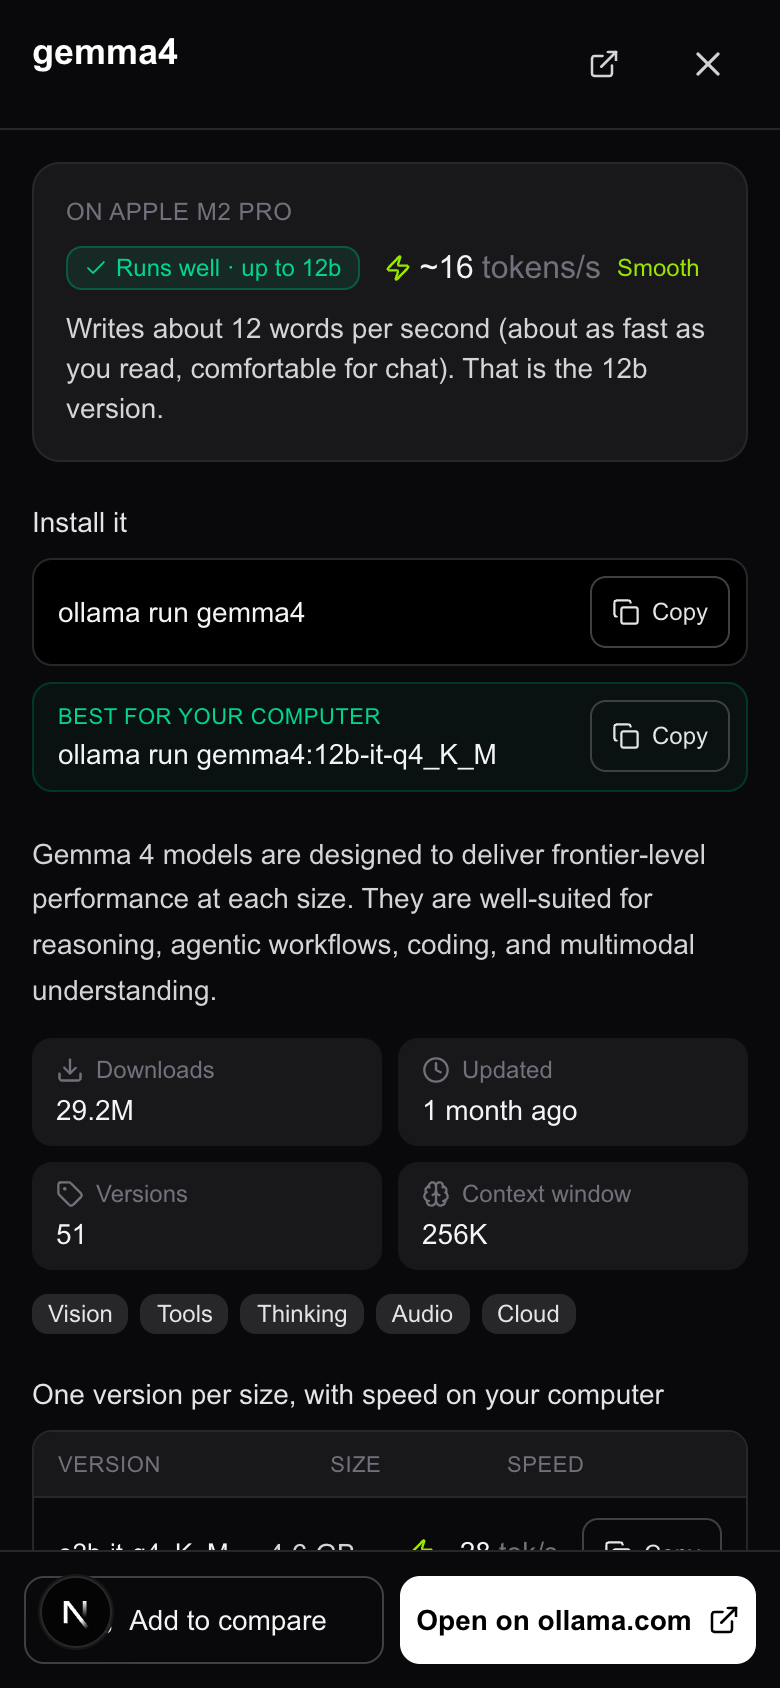
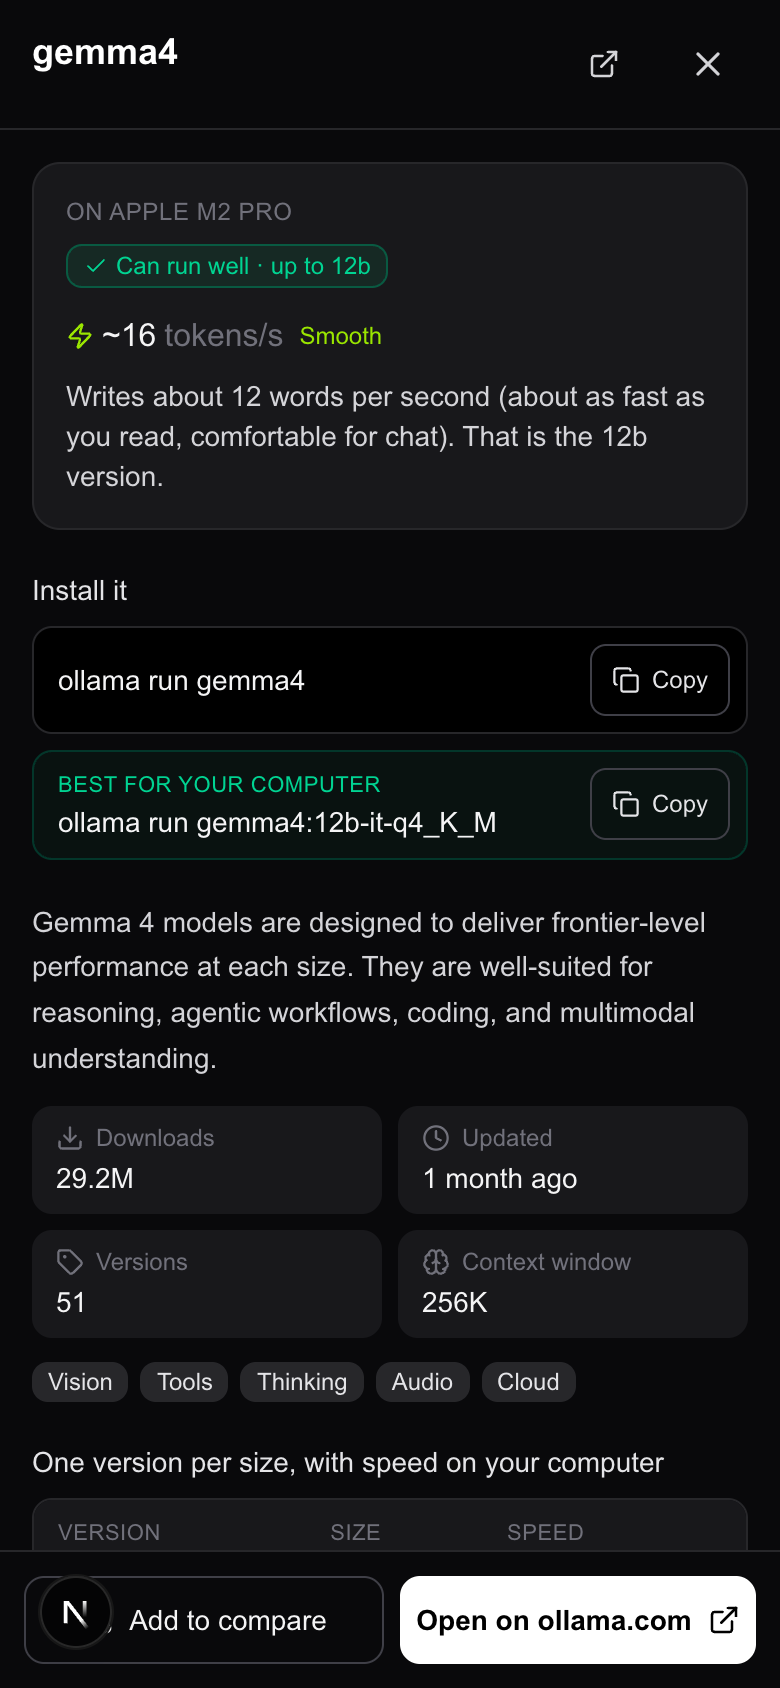
Plainer wording: can run, barely fits, too big to run

diff --git a/components/FilterPanel.tsx b/components/FilterPanel.tsx
@@ -105,24 +105,24 @@ function DeviceCard({ device, onDevice, machine, filters, onChange, glance }: Pi
       <div className="mt-3 space-y-1 border-t border-zinc-800 pt-3 text-sm">
         <Tip block tip={{ title: 'Fits your computer', lines: [`Models with a version that fits in ${machine ? `about ${machine.memoryGB} GB of memory on ${machine.label}` : 'your memory'}. Click to show only these.`] }}>
           <button onClick={() => onChange({ fitOnly: !filters.fitOnly })} className="flex w-full items-center justify-between gap-2 rounded-md px-1 py-1 text-left text-zinc-300 hover:bg-zinc-900" data-testid="glance-runs">
-            <span><span className="font-semibold tabular-nums text-emerald-400">{glance.runs.toLocaleString()}</span> run on {device.manual ? 'your' : 'this'} computer</span>
+            <span><span className="font-semibold tabular-nums text-emerald-400">{glance.runs.toLocaleString()}</span> can run on {device.manual ? 'your' : 'this'} computer</span>
           </button>
         </Tip>
-        <Tip block tip={{ title: 'Fast ones', lines: ['Models that should write at least 40 tokens per second here: much faster than you can read. Click to show only these.'] }}>
+        <Tip block tip={{ title: 'Fast ones', lines: ['Models that should make at least 40 tokens per second here: much faster than you can read. Click to show only these.'] }}>
           <button onClick={() => onChange({ minTps: filters.minTps === 40 ? 0 : 40, fitOnly: false })} className="flex w-full items-center rounded-md px-1 py-1 text-left text-zinc-300 hover:bg-zinc-900" data-testid="glance-fast">
-            <span><span className="font-semibold tabular-nums text-lime-400">{glance.fast.toLocaleString()}</span> write 40+ tokens/s</span>
+            <span><span className="font-semibold tabular-nums text-lime-400">{glance.fast.toLocaleString()}</span> can make 40+ tokens per second</span>
           </button>
         </Tip>
         <Tip block tip={{ title: 'New or updated', lines: ['Added to Ollama in the last 30 days, or changed in the last 2 weeks. Click to see them.'] }}>
           <button onClick={() => onChange({ view: 'new' })} className="flex w-full items-center rounded-md px-1 py-1 text-left text-zinc-300 hover:bg-zinc-900" data-testid="glance-new">
-            <span><span className="font-semibold tabular-nums text-blue-400">{glance.fresh.toLocaleString()}</span> new or updated lately</span>
+            <span><span className="font-semibold tabular-nums text-blue-400">{glance.fresh.toLocaleString()}</span> new or updated recently</span>
           </button>
         </Tip>
       </div>
-      <Tip block tip={{ title: 'Only what runs', lines: ['Hide every model that is too big for your computer, or has no known size.'] }}>
+      <Tip block tip={{ title: 'Only what can run', lines: ['Hide every model that is too big for your computer, or has no known size.'] }}>
         <label className="mt-3 flex cursor-pointer select-none items-center gap-2.5 rounded-lg border border-zinc-700 px-3 py-2.5 text-sm text-zinc-200 hover:bg-zinc-900 has-[:checked]:border-emerald-700 has-[:checked]:bg-emerald-500/5 has-[:checked]:text-emerald-300">
           <input type="checkbox" checked={filters.fitOnly} onChange={e => onChange({ fitOnly: e.target.checked })} className="h-4 w-4 accent-emerald-500" data-testid="fit-only" />
-          Only show what runs on it
+          Only show models that can run on it
         </label>
       </Tip>
     </div>

diff --git a/lib/explain.ts b/lib/explain.ts
@@ -36,7 +36,7 @@ export function explainFit(fit: Fit, m?: Machine): Tip {
     case 'good': {
       const b = fit.best!;
       return {
-        title: 'Runs well',
+        title: 'Can run well',
         lines: [
           `The ${b.label} version${b.estimated ? ' (size estimated)' : ''} is about ${formatGB(b.sizeGB)} to download and needs roughly ${formatGB(need(b.sizeGB))} to run, which fits comfortably in ${mem}${where}.`,
           fit.variants.length > 1 ? 'Bigger versions of this model need more memory than you have.' : '',
@@ -45,11 +45,11 @@ export function explainFit(fit: Fit, m?: Machine): Tip {
     }
     case 'tight': {
       const b = fit.best!;
-      return { title: 'Tight fit', lines: [`The smallest version (${b.label}, about ${formatGB(b.sizeGB)}) fits in ${mem}${where}, but with little to spare. It works, but long chats may slow down.`] };
+      return { title: 'Barely fits', lines: [`The smallest version (${b.label}, about ${formatGB(b.sizeGB)}) fits in ${mem}${where}, but with little to spare. It works, but long chats may slow down.`] };
     }
     case 'no': {
       const s = fit.smallest!;
-      return { title: 'Too big', lines: [`Even the smallest version (${s.label}, about ${formatGB(s.sizeGB)}) needs roughly ${formatGB(need(s.sizeGB))} to run. You have ${mem}${where}.`] };
+      return { title: 'Too big to run', lines: [`Even the smallest version (${s.label}, about ${formatGB(s.sizeGB)}) needs roughly ${formatGB(need(s.sizeGB))} to run. You have ${mem}${where}.`] };
     }
     case 'cloud':
       return { title: 'Cloud', lines: ["This model runs on Ollama's servers instead of your computer, so your memory does not matter."] };

diff --git a/components/ModelDrawer.tsx b/components/ModelDrawer.tsx
@@ -191,7 +191,7 @@ export function ModelDrawer({ model, device, loadVersions, relativeTime, onClose
                       <span className="min-w-0 break-words font-mono text-[13px] text-zinc-100">{v.tag}{isBest && <span className="ml-2 rounded bg-emerald-500/20 px-1.5 py-0.5 font-sans text-[10px] font-semibold uppercase text-emerald-300">Best</span>}</span>
                       <span className="tabular-nums text-zinc-300">{v.estimated ? '~' : ''}{formatGB(v.sizeGB)}</span>
                       <span>
-                        {status === 'no' && fit.status !== 'cloud' ? <span className="text-xs text-red-400">Too big</span> : tps > 0 ? <SpeedBadge tps={tps} compact fit={fit} machine={machine} /> : <span className="text-zinc-600">—</span>}
+                        {status === 'no' && fit.status !== 'cloud' ? <span className="text-xs text-red-400">Too big to run</span> : tps > 0 ? <SpeedBadge tps={tps} compact fit={fit} machine={machine} /> : <span className="text-zinc-600">—</span>}
                         {status === 'tight' && tps > 0 && <span className="ml-1 text-[10px] text-amber-400">tight</span>}
                       </span>
                       <CopyButton text={exact ? `ollama run ${loaded?.find(x => x.name.endsWith(`:${v.tag}`))?.name || `${model.name}:${v.tag}`}` : runName(v.tag)} label={`Copy the command for ${v.tag}`} />

diff --git a/tests/app.spec.ts b/tests/app.spec.ts
@@ -359,7 +359,7 @@ test.describe('speed', () => {
 
   test('the at-a-glance line counts what runs here, and each count is a shortcut', async ({ page }) => {
     await page.goto('/');
-    await expect(page.getByTestId('glance-runs')).toContainText('run on this computer');
+    await expect(page.getByTestId('glance-runs')).toContainText('can run on this computer');
     const runs = Number(/\d+/.exec(await page.getByTestId('glance-runs').innerText())![0]);
     expect(runs).toBeGreaterThan(5);
     await page.getByTestId('glance-runs').click();
@@ -452,14 +452,14 @@ test.describe('tooltips', () => {
     await page.goto('/');
     await row(page, 'qwen2.5-coder').getByTestId('fit-good').hover();
     await expect(tip(page)).toBeVisible();
-    await expect(tip(page)).toContainText('Runs well');
+    await expect(tip(page)).toContainText('Can run well');
     await expect(tip(page)).toContainText('14b version');
     await expect(tip(page)).toContainText('about 12 GB of memory on GeForce RTX 4070');
     await page.mouse.move(5, 5);
     await expect(tip(page)).toHaveCount(0);
 
     await row(page, 'bob/huge-70b').getByTestId('fit-no').hover();
-    await expect(tip(page)).toContainText('Too big');
+    await expect(tip(page)).toContainText('Too big to run');
     await expect(tip(page)).toContainText('smallest version');
   });
 

diff --git a/components/FitBadge.tsx b/components/FitBadge.tsx
@@ -16,7 +16,7 @@ function FitBadgeBody({ fit, compact }: { fit: Fit; compact: boolean }) {
       return (
         <span className={`${base} border-emerald-700/60 bg-emerald-500/10 text-emerald-400`} data-testid="fit-good">
           <Check className="h-3 w-3" />
-          {compact ? 'Runs well' : `Runs well · up to ${fit.best?.label}`}
+          {compact ? 'Can run well' : `Can run well · up to ${fit.best?.label}`}
           {!compact && approx ? <span className="sr-only">(estimated)</span> : null}
         </span>
       );
@@ -24,14 +24,14 @@ function FitBadgeBody({ fit, compact }: { fit: Fit; compact: boolean }) {
       return (
         <span className={`${base} border-amber-700/60 bg-amber-500/10 text-amber-400`} data-testid="fit-tight">
           <AlertTriangle className="h-3 w-3" />
-          {compact ? 'Tight fit' : `Tight fit · ${fit.best?.label}`}
+          {compact ? 'Barely fits' : `Barely fits · ${fit.best?.label}`}
         </span>
       );
     case 'no':
       return (
         <span className={`${base} border-red-800/60 bg-red-500/10 text-red-400`} data-testid="fit-no">
           <X className="h-3 w-3" />
-          Too big
+          Too big to run
         </span>
       );
     case 'cloud':

diff --git a/README.md b/README.md
@@ -24,7 +24,7 @@ A modern, dark-themed UI for exploring and filtering Ollama AI models. This Next
 
 **Every model on Ollama.** The ~270 official models (with every version, size and context window) **and the 17,000+ community models** (`user/model-name`), in Official / Community / All tabs.
 
-**Will it run on my computer, and how fast?** The page finds your graphics card (or Apple chip) and memory by itself, with nothing to type, marks every model **Runs well / Tight fit / Too big / Cloud**, and estimates **tokens per second** (about 0.75 words each), for example `~27 tokens/s`. If the guess is wrong, one tap picks the closest computer. "Only show what runs on it" hides the rest. (Browsers hide exact specs, so it is an estimate. Speed = memory speed × 0.65 ÷ the model's size; mixture-of-experts models, which only use part of themselves for each word, are handled; expect ±30%. Official models use real download sizes, the rest are estimated from the parameter count.)
+**Will it run on my computer, and how fast?** The page finds your graphics card (or Apple chip) and memory by itself, with nothing to type, marks every model **Can run well / Barely fits / Too big to run / Cloud**, and estimates **tokens per second** (about 0.75 words each), for example `~27 tokens/s`. If the guess is wrong, one tap picks the closest computer. "Only show what runs on it" hides the rest. (Browsers hide exact specs, so it is an estimate. Speed = memory speed × 0.65 ÷ the model's size; mixture-of-experts models, which only use part of themselves for each word, are handled; expect ±30%. Official models use real download sizes, the rest are estimated from the parameter count.)
 
 **Hover anything** (a badge, a number, a column heading, a button) for a tooltip that says in plain words what it means and how it was worked out.
 
